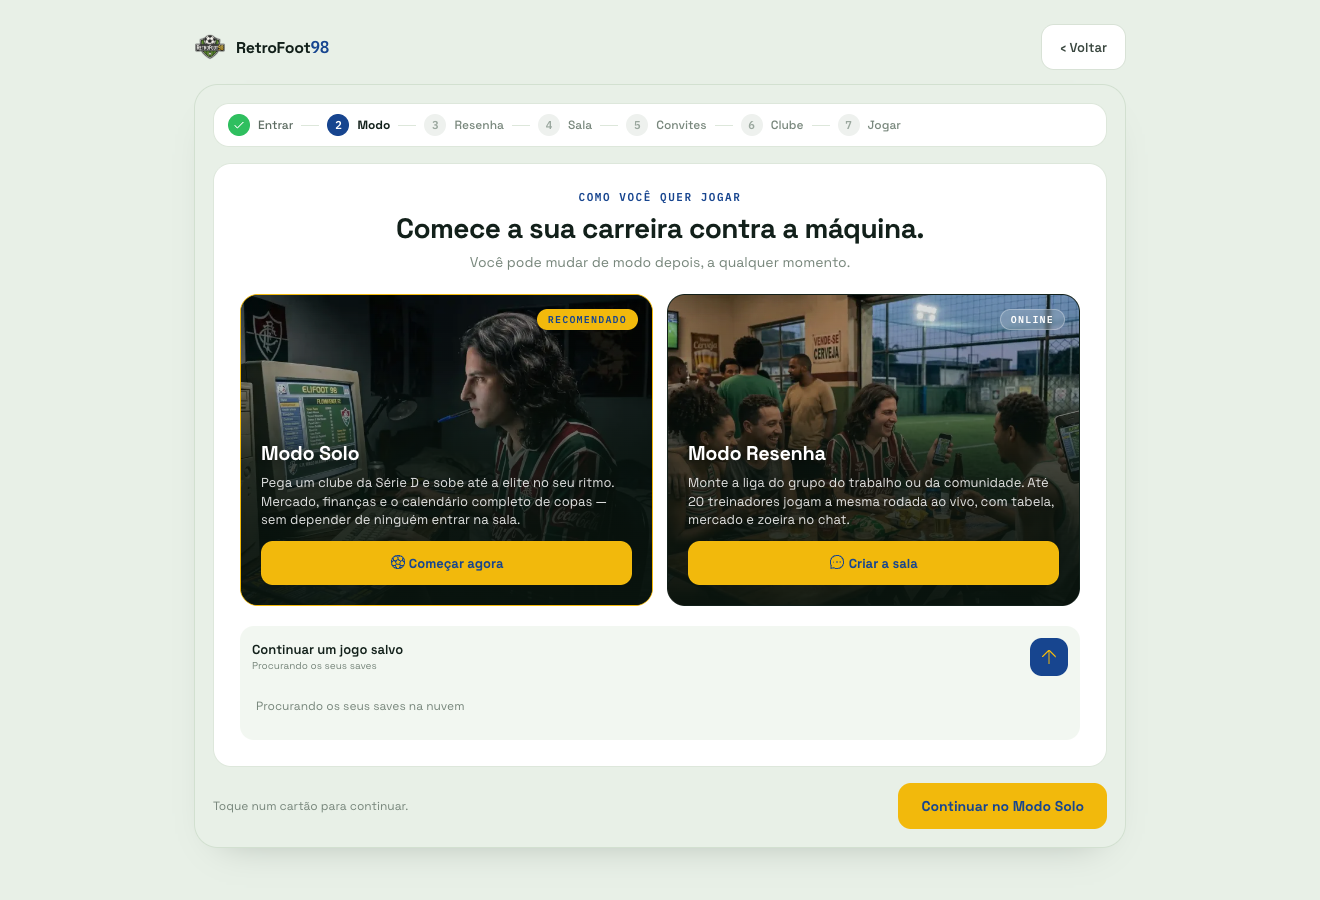
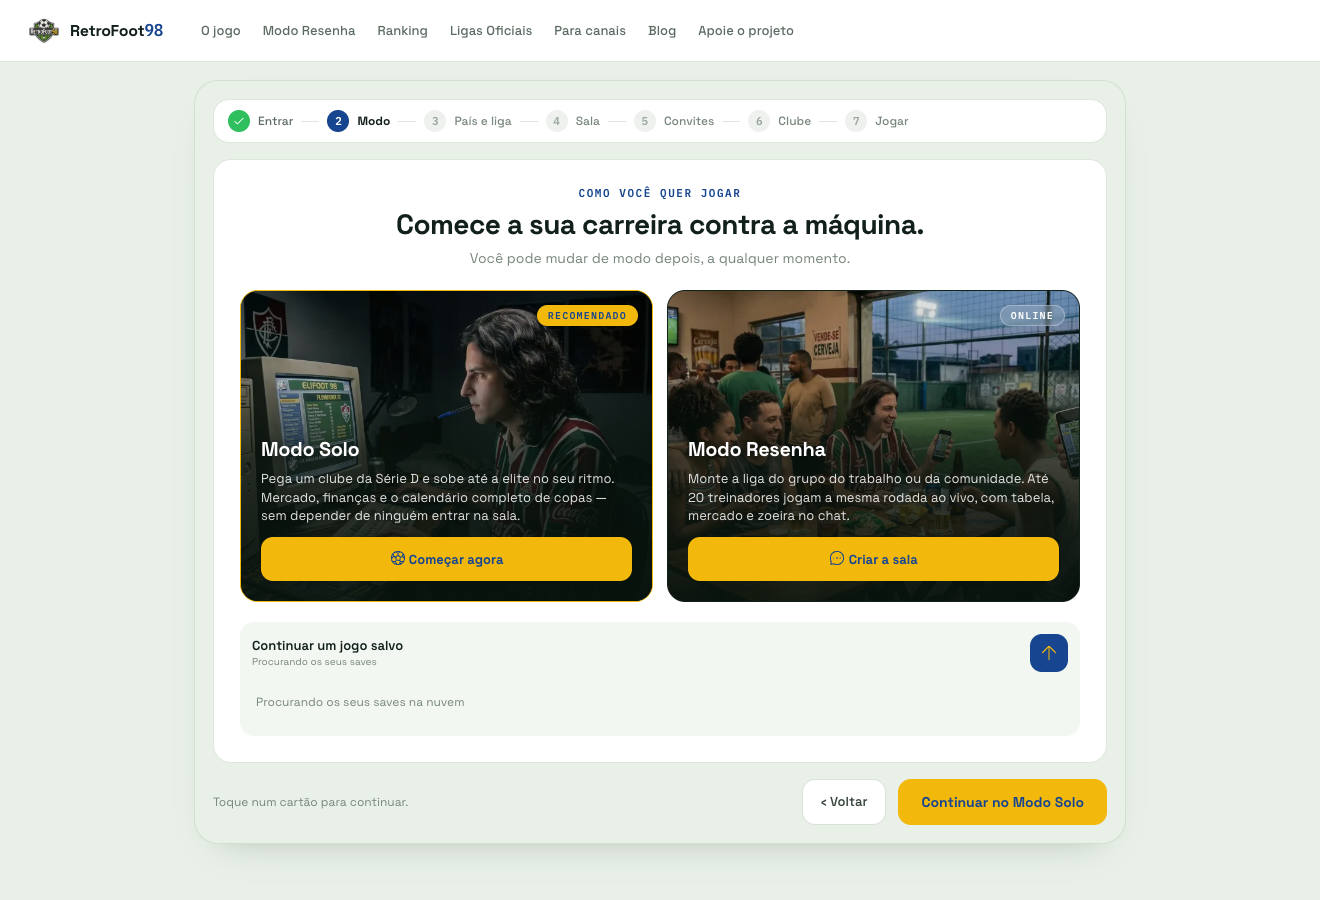
Telas contra o motor: teto, codigo e conta no cabecalho
Regra desta leva: a tela obedece ao motor, nao ao desenho. Onde o pacote
imprime um numero, o numero passa a sair do jogo.

TETO DA SALA. A sala tem UM ASSENTO POR CLUBE DA DIVISAO — logo o teto e o
tamanho da divisao, nao um numero fixo. Confirmado no banco: o maximo real de
assentos por sala e 20, igual a Serie D (RESENHA_START_DIV). Mas 20 tambem
nao se escreve a mao: a Championship tem 24 e a Bundesliga 18 (UNI_CONFIGS.
size). rfSalaTeto() deriva — do pool da sala quando ela existe, do tamanho da
divisao quando ainda nao. Substituiu quatro literais, incluindo um errado:
o lobby fazia `room.capacity||room.max||4` e NEM capacity NEM max sao alguma
vez escritos pelo adaptador, entao a sala anunciava "de 4" com teto de 20.

CODIGO DA SALA. Confirmado em generate_room_code(): cinco caracteres do
alfabeto ABCDEFGHJKLMNPQRSTUVWXYZ23456789 — SEM I, O, 0 e 1, tirados por
serem confundiveis. O filtro aceitava [A-Z0-9], ou seja, deixava digitar
quatro caracteres que nenhum codigo real pode conter. E como o alfabeto tem
digitos, o cartao deixou de dizer "5 letras".

CONTA NO CABECALHO. Sair da conta vivia so em Configuracoes — dentro de um
save. Quem ficasse preso no assistente (conta errada, convite para a sala de
outra pessoa) nao tinha por onde sair. Agora o nome e o Sair estao fixos no
cabecalho publico, que e o mesmo da landing e de todas as telas do
assistente, e na faixa do clube dentro do jogo.

O PASSO 1 NAO SE SALTA MAIS. clGoModo ia direto para 'modo' quando havia
[…]

diff --git a/public/src/ui/rf26-onboarding.js b/public/src/ui/rf26-onboarding.js
@@ -173,6 +173,13 @@ function rfInput(id, ph, valor, tipo, oninput){
    1 · ENTRAR
    ===================================================================== */
 function rfOb1(){
+  /* JA LOGADO: o passo 1 nao desaparece, muda de conteudo.
+     `clGoModo` saltava direto para "escolher modo" quando havia sessao, entao
+     quem ja estava logado nunca via em que conta estava — e nao tinha por onde
+     trocar sem ir a Configuracoes, que so existe dentro de um save. A Resenha
+     ja tinha esta tela (scConta, pele de 98); o Solo nao tinha nenhuma. */
+  const st=(typeof NET!=='undefined'&&NET.authStatus)?NET.authStatus():{loggedIn:false};
+  if(st.loggedIn && !(CL.auth&&CL.auth.trocando)) return rfOb1Logado(st);
   const a=CL.auth||(CL.auth={mode:'signup',name:CL.mgr||'',email:'',password:''});
   const criando=a.mode!=='login';
   const pronto=!!(a.email&&a.password&&(!criando||a.name));
@@ -198,6 +205,35 @@ function rfOb1(){
     nota:'A gente só usa seu e-mail para o save e para avisar da vaga.',
     cta: criando?'Criar conta e continuar':'Entrar e continuar',
     ctaOff:!pronto, ctaOn: criando?'clLoginSignup()':'clLoginDo()'});
+}
+/* o passo 1 com sessao: quem esta, e as duas saidas — seguir ou trocar */
+function rfOb1Logado(st){
+  const nome=st.name||(st.email||'').split('@')[0]||'treinador';
+  const corpo=`
+    <div class="rf-wiz-mid">
+      <div class="rf-ob-sessao">
+        <span class="rf-ob-sessao-ic" aria-hidden="true">${rfIcone('ok',20)||'✓'}</span>
+        <span class="rf-ob-sessao-id">
+          <span class="rf-ob-sessao-t">Você já está logado</span>
+          <span class="rf-ob-sessao-e">${escC(st.email||nome)}</span>
+        </span>
+      </div>
+      <button type="button" class="rf-ob-trocar" onclick="rfObTrocarConta()">
+        Não é você? <b>Entrar com outra conta</b>
+      </button>
+    </div>`;
+  return rfWiz({passo:rfPasso('Entrar'), corpo,
+    sobre:'Bem-vindo de volta', titulo:'Continuar como '+nome+'.',
+    sub:'Seus saves ficam na nuvem — dá para começar no computador e continuar no telefone.',
+    nota:'Dá para trocar de conta a qualquer momento pelo cabeçalho.',
+    cta:'Continuar', ctaOn:"CL.screen='modo';cdraw()"});
+}
+/* NAO desloga: so devolve o formulario, para quem se enganou nao perder a
+   sessao antes de ter a outra em maos. O logout real e o botao Sair do
+   cabecalho (rfAcSairConta). */
+function rfObTrocarConta(){
+  CL.auth={mode:'login',name:'',email:'',password:'',trocando:true};
+  cdraw();
 }
 function rfObAuthMode(m){ CL.auth=CL.auth||{}; CL.auth.mode=m; cdraw(); }
 function rfObSet(k,v){ CL.auth=CL.auth||{}; CL.auth[k]=v; if(k==='aviso') cdraw(); else rfObSyncCta(); }
@@ -236,7 +272,7 @@ function rfOb2(){
         <div class="rf-modo-txt">
           <span class="rf-modo-tag">${RESENHA_EM_BREVE?'Em novembro':'Online'}</span>
           <span class="rf-modo-t">Modo Resenha</span>
-          <span class="rf-modo-d">Monte a liga do grupo do trabalho ou da comunidade. Até 20 treinadores jogam a mesma rodada ao vivo, com tabela, mercado e zoeira no chat.</span>
+          <span class="rf-modo-d">Monte a liga do grupo do trabalho ou da comunidade. Até ${rfSalaTeto()} treinadores jogam a mesma rodada ao vivo, com tabela, mercado e zoeira no chat.</span>
           <button type="button" class="rf-modo-cta" onclick="event.stopPropagation();${RESENHA_EM_BREVE?"clWaitlistOpen('onboarding')":'clPickResenha()'}">${RESENHA_EM_BREVE?rfIcone('coroa',16)+' Entrar na lista de espera':rfIcone('chat',16)+' Criar a sala'}</button>
         </div>
       </div>
@@ -449,7 +485,7 @@ function rfOb4(){
       <div class="rf-sl-faixa">
         <div class="rf-sl-fx"><span class="rf-sl-l">CÓDIGO</span><span class="rf-sl-fx-v mono">${escC(codigo)}</span></div>
         <span class="rf-sl-fx-sep"></span>
-        <div class="rf-sl-fx"><span class="rf-sl-l">TREINADORES</span><span class="rf-sl-fx-v">até 20</span></div>
+        <div class="rf-sl-fx"><span class="rf-sl-l">TREINADORES</span><span class="rf-sl-fx-v">até ${rfSalaTeto()}</span></div>
         <span class="rf-sl-fx-sep"></span>
         <div class="rf-sl-fx"><span class="rf-sl-l">CLUBES</span><span class="rf-sl-fx-v">por sorteio</span></div>
       </div>
@@ -488,7 +524,8 @@ function rfOb5(){
   const parts=room.participants||[];
   const dentro=parts.filter(p=>p.confirmed).length;
   const convidados=parts.length-dentro;
-  const teto=20, vagas=Math.max(0,teto-parts.length);
+  /* o teto e o numero de assentos da sala, nao um numero escrito a mao (ver rfSalaTeto) */
+  const teto=rfSalaTeto(room), vagas=Math.max(0,teto-parts.length);
   const link=(typeof NET.inviteLink==='function')?NET.inviteLink():'';
   const codigo=room.code||'';
   // mesma armadilha do lobby: aqui `S` ainda é null (ver rfDivisaoSala)

diff --git a/public/src/ui/rf26-resenha-entrada.js b/public/src/ui/rf26-resenha-entrada.js
@@ -105,7 +105,7 @@ function rfCodigoCaixasHTML(codigo){
    salta para o início (ver docs — é o erro que já apareceu noutros campos).
    Aqui só as caixas e o rodapé são repintados, e o input fica onde está. */
 function rfCodigoDigita(el){
-  const v=String(el.value||'').toUpperCase().replace(/[^A-Z0-9]/g,'').slice(0,RF_CODIGO_TAM);
+  const v=rfCodigoLimpa(el.value);
   el.value=v;
   CL.net=CL.net||{}; CL.net.code=v;
   document.querySelectorAll('.rf-cod-cx').forEach((cx,i)=>{
@@ -265,7 +265,36 @@ function rfMinhasSalasHTML(){
    exigiria uma consulta por linha. O que entra é o que se sabe — "à
    espera de você" quando a rodada está parada no seu assento.
    ===================================================================== */
-const RF_SALA_TETO=20;
+/* ===== O TETO DA SALA SAI DO MOTOR, NAO DO DESENHO =====
+   A sala tem UM ASSENTO POR CLUBE DA DIVISAO — e por isso o teto e o tamanho
+   da divisao, nao um numero fixo. Hoje as quatro Series do Brasil tem 20, mas
+   a Championship tem 24 e a Bundesliga 18 (ver UNI_CONFIGS.size); escrever 20
+   a mao seria repetir noutro numero o erro do "ate 8" que o pacote trazia.
+   Confirmado no banco: o maximo real de assentos por sala e 20, igual ao
+   tamanho da Serie D, que e onde a Resenha comeca (RESENHA_START_DIV). */
+function rfSalaTeto(room){
+  room = room || (typeof NET!=='undefined' && NET.room) || null;
+  /* 1) sala montada: o numero de assentos e o proprio pool de clubes */
+  const assentos = room && (room.seatCount
+    || (Array.isArray(room.seats) && room.seats.length)
+    || (Array.isArray(room.clubs) && room.clubs.length));
+  if(assentos) return assentos;
+  /* 2) antes de existir sala: o tamanho da divisao onde ela vai comecar */
+  const div = (room && (room.division || room.div))
+    || (typeof RESENHA_START_DIV!=='undefined' ? RESENHA_START_DIV : 'D');
+  return (typeof DIVISION_SIZE!=='undefined' && DIVISION_SIZE[div]) || 20;
+}
+
+/* ===== O ALFABETO DO CODIGO TAMBEM =====
+   generate_room_code() no banco sorteia de ABCDEFGHJKLMNPQRSTUVWXYZ23456789:
+   SEM I, O, 0 e 1, tirados por serem confundiveis entre si. O filtro aceitava
+   [A-Z0-9], ou seja, deixava digitar quatro caracteres que nenhum codigo real
+   pode conter. */
+const RF_CODIGO_ALFA='ABCDEFGHJKLMNPQRSTUVWXYZ23456789';
+const RF_CODIGO_RE=new RegExp('[^'+RF_CODIGO_ALFA+']','g');
+function rfCodigoLimpa(v){
+  return String(v||'').toUpperCase().replace(RF_CODIGO_RE,'').slice(0,RF_CODIGO_TAM);
+}
 
 function rfResenhaComecarHTML(){
   CL.net=CL.net||{};
@@ -284,9 +313,9 @@ function rfResenhaComecarHTML(){
   const cartoes=[
     cartao({ic:'🍺', t:'Criar uma sala', on:'clResenhaCreate()', destaque:true,
       d:'Você é o anfitrião: escolhe divisão, ritmo e quem entra.',
-      selo:'ATÉ '+RF_SALA_TETO+' TREINADORES'}),
+      selo:'ATÉ '+rfSalaTeto()+' TREINADORES'}),
     cartao({ic:'🔑', t:'Entrar com código', on:'clResenhaJoinPrompt()',
-      d:'Alguém te passou um código de '+RF_CODIGO_TAM+' letras. Cole e entre direto.',
+      d:'Alguém te passou um código de '+RF_CODIGO_TAM+' caracteres. Cole e entre direto.',
       selo:'ENTRADA IMEDIATA'}),
   ];
   /* o terceiro cartão só existe se houver a que voltar */
@@ -345,7 +374,7 @@ function rfResenhaComecarHTML(){
 }
 /* como no campo das cinco caixas: sem cdraw() por tecla, senão o cursor salta */
 function rfComecarColar(el){
-  const v=String(el.value||'').toUpperCase().replace(/[^A-Z0-9]/g,'').slice(0,RF_CODIGO_TAM);
+  const v=rfCodigoLimpa(el.value);
   el.value=v;
   CL.net=CL.net||{}; CL.net.code=v;
   const bt=document.querySelector('.rf-rc-bt'); if(bt) bt.disabled=v.length<RF_CODIGO_TAM;

diff --git a/public/src/styles/rf26.css b/public/src/styles/rf26.css
@@ -6268,3 +6268,43 @@
    público. A régua fica a encostar no nav sem este respiro. */
 .rf-wiz>.rf-lp-nav{margin-bottom:0}
 .rf-wiz-in{padding-top:18px}
+
+/* ===== A CONTA NO CABEÇALHO, EM TODA A TELA =====
+   Sair da conta vivia só em Configurações, dentro de um save. Agora está fixo
+   no cabeçalho público (landing + todas as telas do assistente) e na faixa do
+   clube dentro do jogo. */
+.rf-lp-conta{display:flex;align-items:center;gap:7px;height:36px;padding:0 12px;
+  border-radius:11px;background:var(--surface-2);color:var(--text-2);
+  font-size:var(--fs-2);font-weight:600;white-space:nowrap;max-width:180px}
+.rf-lp-conta-n{overflow:hidden;text-overflow:ellipsis}
+.rf-lp-sair{height:36px;padding:0 14px;border-radius:11px;background:var(--surface-card);
+  border:var(--border-control);color:var(--text-2);font-family:inherit;font-size:var(--fs-2);
+  font-weight:600;cursor:pointer;white-space:nowrap}
+.rf-lp-sair:hover{background:color-mix(in srgb,var(--danger) 10%,transparent);
+  border-color:var(--danger);color:var(--danger)}
+.rf-band-conta{display:flex;align-items:center;gap:6px;height:34px;padding:0 12px;
+  border-radius:11px;background:rgba(255,255,255,.14);border:1px solid rgba(255,255,255,.24);
+  color:#fff;font-family:inherit;font-size:var(--fs-1);font-weight:600;cursor:pointer;
+  white-space:nowrap;max-width:190px}
+.rf-band-conta:hover{background:rgba(255,255,255,.24)}
+.rf-band-conta-n{overflow:hidden;text-overflow:ellipsis;max-width:96px}
+@media (max-width:900px){
+  .rf-lp-conta{max-width:120px;padding:0 9px}
+  .rf-band-conta-n{display:none}
+}
+
+/* ----- passo 1 com sessão aberta ----- */
+.rf-ob-sessao{display:flex;align-items:center;gap:12px;padding:16px;border-radius:var(--r-3);
+  background:color-mix(in srgb,var(--ok) 10%,transparent);
+  border:1px solid color-mix(in srgb,var(--ok) 34%,transparent)}
+.rf-ob-sessao-ic{flex:0 0 auto;width:34px;height:34px;display:flex;align-items:center;
+  justify-content:center;border-radius:99px;background:var(--ok);color:#fff}
+.rf-ob-sessao-id{display:flex;flex-direction:column;gap:2px;min-width:0}
+.rf-ob-sessao-t{font-size:var(--fs-3);font-weight:var(--fw-bold);color:var(--text-1)}
+.rf-ob-sessao-e{font-family:var(--font-mono);font-size:var(--fs-2);color:var(--text-3);
+  overflow:hidden;text-overflow:ellipsis}
+.rf-ob-trocar{margin-top:12px;width:100%;padding:13px;border-radius:var(--r-3);
+  border:1px dashed var(--line-2);background:transparent;font-family:inherit;
+  font-size:var(--fs-2);color:var(--text-3);cursor:pointer}
+.rf-ob-trocar b{color:var(--brand-primary)}
+.rf-ob-trocar:hover{background:var(--surface-2)}

diff --git a/public/src/ui/rf26-landing.js b/public/src/ui/rf26-landing.js
@@ -17,9 +17,29 @@ const RF_LP_NAV=[
   ['ligas','Ligas Oficiais'],['canais','Para canais'],['blog','Blog'],['apoie','Apoie o projeto'],
 ];
 
+/* ===== A CONTA VIVE NO CABEÇALHO, EM TODA A TELA =====
+   Sair da conta estava só dentro de Configurações — ou seja, só depois de
+   entrar num save. Quem ficasse preso no assistente (conta errada, convite
+   para a sala de outra pessoa) não tinha por onde sair. Agora o cabeçalho
+   público, que é o MESMO da landing e de todas as telas do assistente,
+   carrega sempre o estado da conta: nome + Sair quando há sessão, Entrar
+   quando não há. */
+function rfContaChipHTML(){
+  const st=(typeof NET!=='undefined'&&NET.authStatus)?NET.authStatus():{loggedIn:false};
+  if(!st.loggedIn){
+    return `<button type="button" class="rf-lp-entrar" onclick="clGoModo('solo')">${rfIcone('chave',16)} Entrar</button>`;
+  }
+  const nome=st.name||(st.email||'').split('@')[0]||'treinador';
+  return `<span class="rf-lp-conta" title="${escC(st.email||'')}">
+      <span class="rf-lp-conta-ic" aria-hidden="true">👤</span>
+      <span class="rf-lp-conta-n">${escC(nome)}</span>
+    </span>
+    <button type="button" class="rf-lp-sair" onclick="rfAcSairConta()">Sair</button>`;
+}
 /* `extra` é o encaixe da DIREITA do cabeçalho: dentro do assistente é ali que
    mora o "‹ Voltar ao modo" do desenho, no lugar dos botões de entrar. Nas
-   páginas públicas ele vem vazio e o cabeçalho é o de sempre. */
+   páginas públicas ele vem vazio e o cabeçalho é o de sempre.
+   A CONTA VEM SEMPRE DEPOIS do extra — nunca é substituída por ele. */
 function rfLpNavHTML(extra){
   return `<nav class="rf-lp-nav">
     <a class="rf-lp-marca" href="/" aria-label="RetroFoot98">
@@ -30,8 +50,9 @@ function rfLpNavHTML(extra){
       ${RF_LP_NAV.map(([k,l])=>`<button type="button" class="rf-lp-link" onclick="rfLpIr('${k}')">${escC(l)}</button>`).join('')}
     </div>
     <div class="rf-sp"></div>
-    ${extra!=null ? extra : `<button type="button" class="rf-lp-entrar" onclick="clGoModo('solo')">${rfIcone('chave',16)} Entrar</button>
-    <button type="button" class="rf-lp-btlista" onclick="rfLpIr('lista')">Entrar na lista</button>`}
+    ${extra||''}
+    ${extra==null ? `<button type="button" class="rf-lp-btlista" onclick="rfLpIr('lista')">Entrar na lista</button>` : ''}
+    ${rfContaChipHTML()}
   </nav>`;
 }
 function rfLpIr(k){

diff --git a/public/src/ui/rf26.js b/public/src/ui/rf26.js
@@ -316,9 +316,23 @@ function rfBandHTML(titulo){
     </div>
     <button type="button" class="rf-band-gravar" onclick="rfAcGravar()"
       title="Gravar o jogo agora">${rfIcone('salvar',15)} Gravar</button>
+    ${rfBandContaHTML()}
   </div>
   ${rfFaixaEstadoHTML()}`;
 }
+/* SAIR DA CONTA TAMBÉM AQUI DENTRO. Estava só em Configurações, a dois cliques
+   e dentro de uma aba; a decisão foi tê-lo fixo no cabeçalho de toda a tela
+   (16/ago). Na faixa do clube ele é o irmão do Gravar — e é de propósito que
+   grava antes de sair (ver rfSairContaGo). Só aparece com sessão: em hotseat
+   local não há conta de que sair. */
+function rfBandContaHTML(){
+  const st=(typeof NET!=='undefined'&&NET.authStatus)?NET.authStatus():{loggedIn:false};
+  if(!st.loggedIn) return '';
+  const nome=st.name||(st.email||'').split('@')[0]||'treinador';
+  return `<button type="button" class="rf-band-conta" onclick="rfAcSairConta()"
+    title="Sair da conta de ${escC(st.email||nome)}">👤 <span class="rf-band-conta-n">${escC(nome)}</span> · Sair</button>`;
+}
+
 /* ---- FAIXA DE ESTADO — só no telefone ----
    O pacote (Hub do Time - Mobile) põe, logo abaixo do cabeçalho azul, uma tira
    branca com FORMA · MORAL · janela de transferências. É por isso que os cartões

diff --git a/public/src/ui/main.js b/public/src/ui/main.js
@@ -1746,7 +1746,11 @@ function clGoModo(mode){
   (async ()=>{
     await netInitSupabase();
     const st=(typeof NET!=='undefined'&&NET.authStatus)?NET.authStatus():{loggedIn:false};
-    if(st.loggedIn){ CL.mgr=CL.mgr||st.name; CL.screen='modo'; }
+    /* O PASSO 1 NAO SE SALTA. Com sessao isto ia direto para 'modo', e quem ja
+       estava logado nunca via em que conta estava nem tinha por onde trocar.
+       Agora cai sempre em 'login', que com sessao mostra quem esta e oferece
+       as duas saidas (ver rfOb1Logado). */
+    if(st.loggedIn){ CL.mgr=CL.mgr||st.name; CL.auth=null; CL.screen='login'; }
     else { CL.auth={mode:mode||'login',name:CL.mgr||'',email:'',password:''}; CL.screen='login'; }
     cdraw();
   })();

diff --git a/public/src/ui/rf26-partida.js b/public/src/ui/rf26-partida.js
@@ -534,7 +534,10 @@ function rfDivisaoSala(room){
 function rfLobbyHTML(){
   const room=(typeof NET!=='undefined'&&NET.room)||{};
   const parts=room.participants||[];
-  const cap=room.capacity||room.max||4;
+  /* `room.capacity` e `room.max` NUNCA sao escritos pelo adaptador, entao isto
+     caia sempre no 4 — a sala mostrava "x de 4" quando o teto real e o numero
+     de assentos (20 na Serie D). Ver rfSalaTeto. */
+  const cap=room.capacity||room.max||rfSalaTeto(room);
   const prontos=parts.filter(p=>p.ready).length;
   const codigo=(typeof NET!=='undefined'&&NET.code)||room.code||'——————';
   const euId=(typeof NET!=='undefined'&&NET.self&&NET.self.id)||null;
